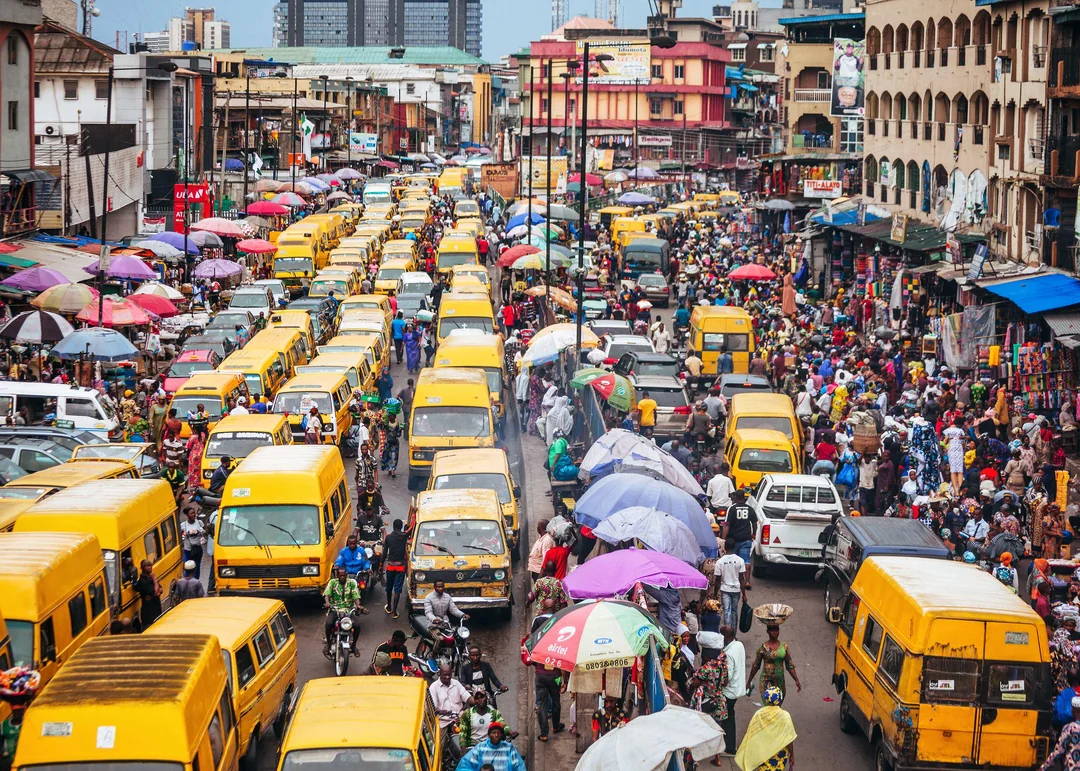
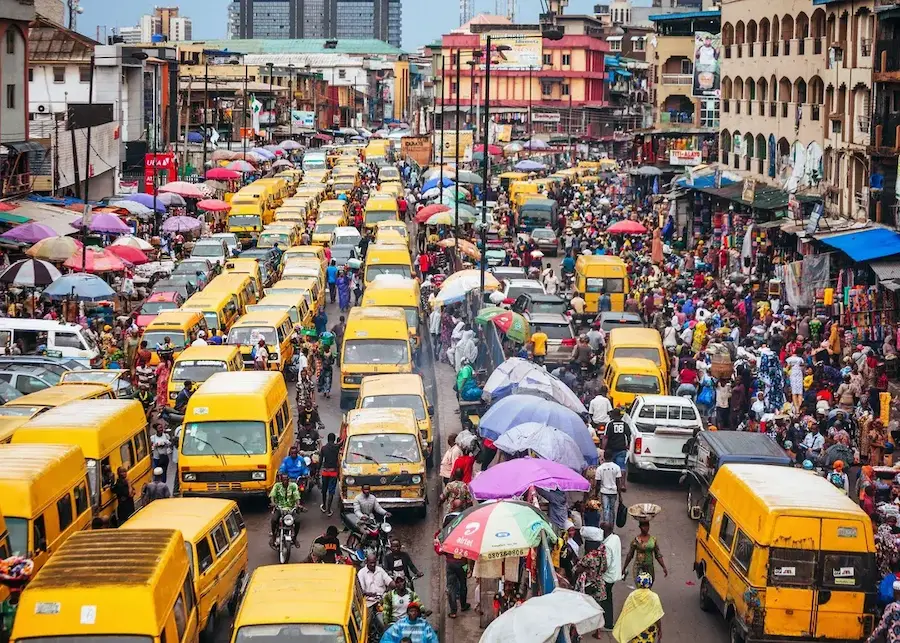
Personal web updated

diff --git a/week02/temple.html b/week02/temple.html
@@ -14,20 +14,29 @@
     </header>
     <main>
         <h1>Abidjan Cote d'Ivoire</h1>
+
         <picture>
             <img src="images/abidjan-ivory-coast.jpeg" alt="Abidjan Cote d'Ivoire Temple">
         </picture>
+
         <section>
             <h2>About the Temple</h2>
+
             <p>The Abidjan Ivory Coast Temple is the seventh temple built in Africa and the first
                 for Ivory Coast (Côte
-                d'Ivoire).</p>
-            <p>Dedicated 25 May 2025: <a
-                  href="https://www.churchofjesuschrist.org/temples/dedicatory-prayer/abidjan-ivory-coast-temple/2025-05-25?lang=eng"
-                  target="_blank" rel="noopener noreferrer">Dedicatory Prayer</a></p>
+                d'Ivoire).
+            </p>
+
+            <p>Dedicated 25 May 2025:
+                <a href="https://www.churchofjesuschrist.org/temples/dedicatory-prayer/abidjan-ivory-coast-temple/2025-05-25?lang=eng"
+                  target="_blank" rel="noopener noreferrer">Dedicatory Prayer
+                </a>
+            </p>
         </section>
+
         <section>
             <h2>Visiting Information</h2>
+
             <ul>
                 <li>Location: Lot 118 Riviera Attoban Cocody Abidjan Cote d'Ivoire</li>
                 <li>Hours: Check Ordinance Schedule</li>
@@ -35,6 +44,7 @@
                 <li>Housing: Available</li>
             </ul>
         </section>
+
     </main>
     <footer>
         <p>Temple Card - King David Olaribigbe</p>

diff --git a/index.html b/index.html
@@ -6,6 +6,8 @@
     <meta name="viewport" content="width=device-width, initial-scale=1.0">
     <title>King David Olaribigbe | WDD 130</title>
     <link rel="stylesheet" href="styles/styles.css">
+    <meta name="description" content="This is my personal webpage.">
+    <meta name="author" content="King David Olaribigbe">
 </head>
 
 <body>
@@ -27,6 +29,12 @@
 
         <img src="images/profile.jpg" alt="King David close up side view.">
     </main>
+
+    <aside>
+        <h2>Lagos</h2>
+        <img src="week01/images/lagos.webp" alt="Lagos landscape">
+        <p>An image of a typical busy lagos life</p>
+    </aside>
 
     <footer>
         <p>© 2026 Location: Lagos Nigeria</p>

diff --git a/week02/styles/temple.css b/week02/styles/temple.css
@@ -5,13 +5,44 @@ header {
     padding: 10px;
 }
 
+header p {
+    font-size: 2.5rem;
+}
+
 body {
     margin: 0 auto;
 }
 
 main {
     width: 90%;
+    max-width: 410px;
+    margin: 0 auto;
     padding: 10px;
     text-align: center;
+}
 
+img {
+    width: 100%;
+    height: auto;
+    margin: 10px 0 20px;
+    box-shadow: 0 0 30px rgb(33, 33, 33);
+}
+
+section {
+    background-color: lightgray;
+    text-align: left;
+    padding: 20px;
+    margin: 20px 0;
+}
+
+h2 {
+    border-bottom: 1px solid black;
+    padding-bottom: 5px;
+}
+
+footer {
+    background-color: black;
+    color: white;
+    text-align: center;
+    padding: 15px;
 }

diff --git a/styles/styles.css b/styles/styles.css
@@ -31,3 +31,28 @@ img {
 p {
     padding: 10px;
 }
+
+main {
+    max-width: 840px;
+    margin: 0 auto;
+}
+
+aside {
+    width: 20rem;
+    margin: 1rem;
+    border: 1px solid rgb(0, 0, 0);
+    padding: 10px;
+    color: rgb(44, 39, 39);
+    background-color: #eee;
+    text-align: center;
+}
+
+aside img {
+    width: 200px;
+    height: auto;
+}
+
+main img {
+    width: 150px;
+    height: auto;
+}
